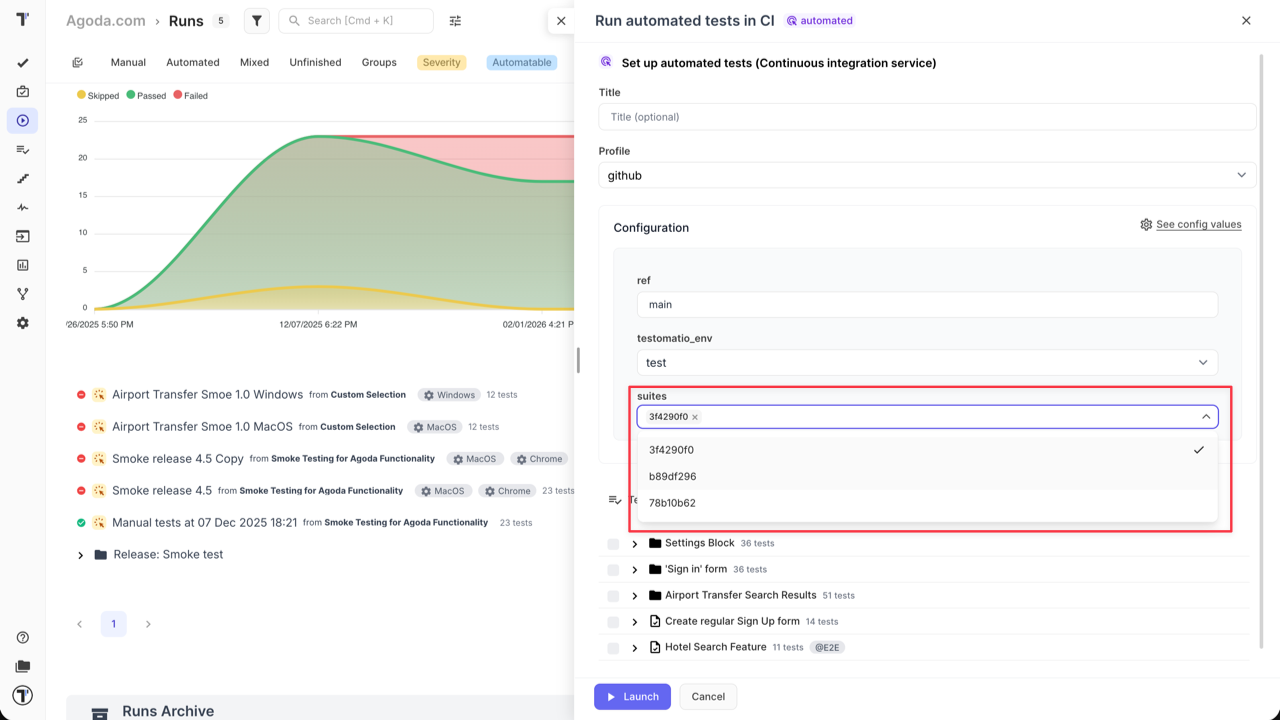
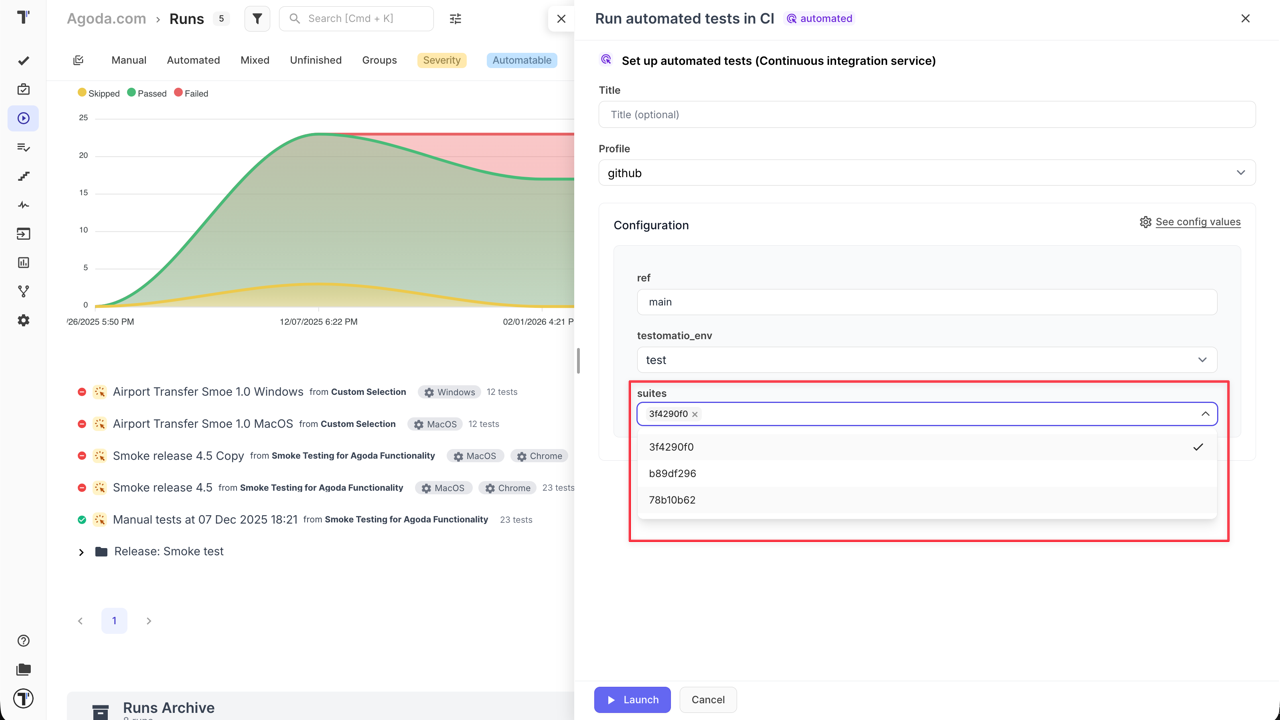
updated screens

diff --git a/src/content/docs/project/runs/running-automated-tests.md b/src/content/docs/project/runs/running-automated-tests.md
@@ -84,7 +84,7 @@ The multi-select is implemented as a dropdown, where you can choose the required
 
 **To use this feature, you need:**
 
-1. Adjust your CI workflow by adding `grep by suites`.
+1. Adjust your CI workflow by adding `grep by suites` - (Learn more about [Environment Configuration](https://docs.testomat.io/integrations/continuous-integration/#environment-configuration)).
 
 ![Testomat.io - Multi-Select Suite IDs](./images/suite_id_ci_1.png)
 
@@ -95,6 +95,14 @@ The multi-select is implemented as a dropdown, where you can choose the required
 When everything is configured, previously added suites will be available under **'Suites'** dropdown list in the New Run view.
 
 ![Testomat.io - Multi-Select Suite IDs](./images/suite_id_ci_3.png)
+
+:::note
+
+When setting up automated tests, selecting a suite linked to a CI configuration restricts further selection to only those suites within that same CI configuration.
+
+![Testomat.io - Multi-Select Suite IDs](./images/suite_id_ci_4.gif)
+
+:::
 
 ## Advanced Reporting
 
